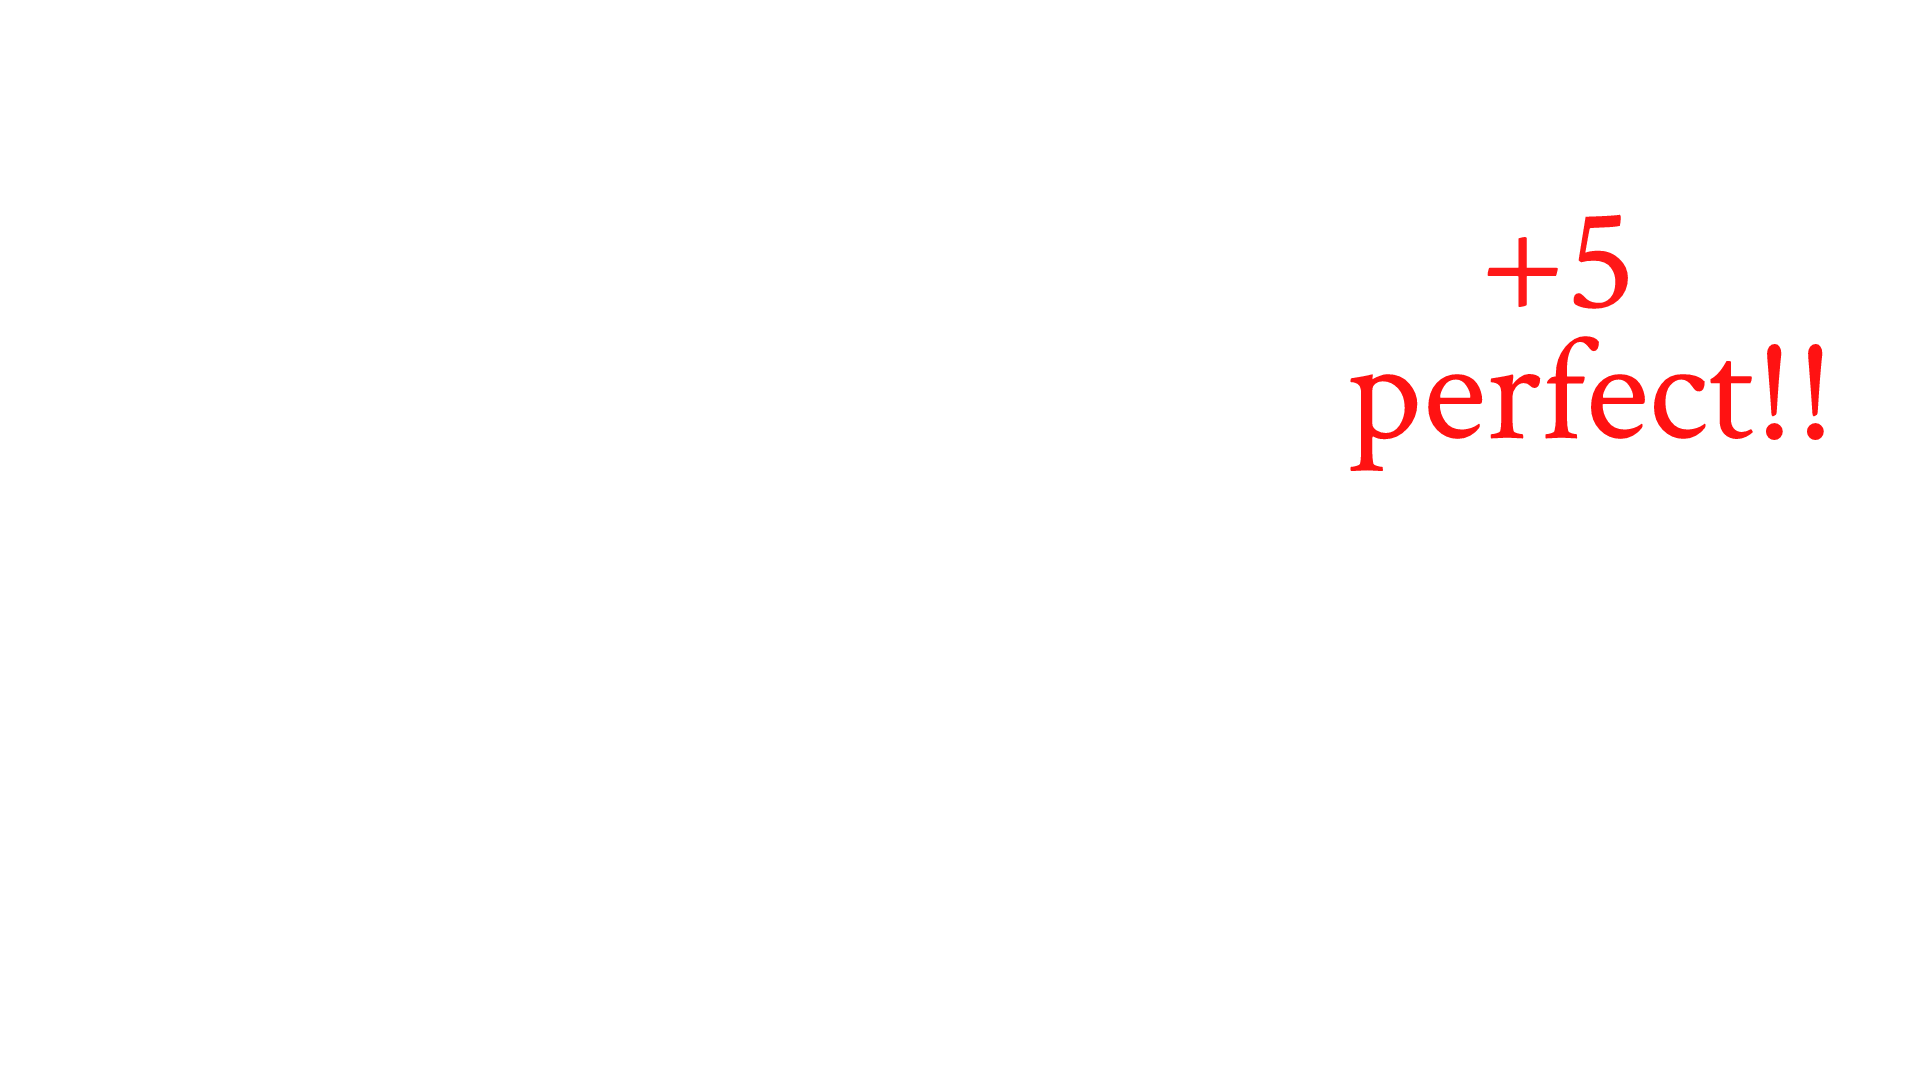
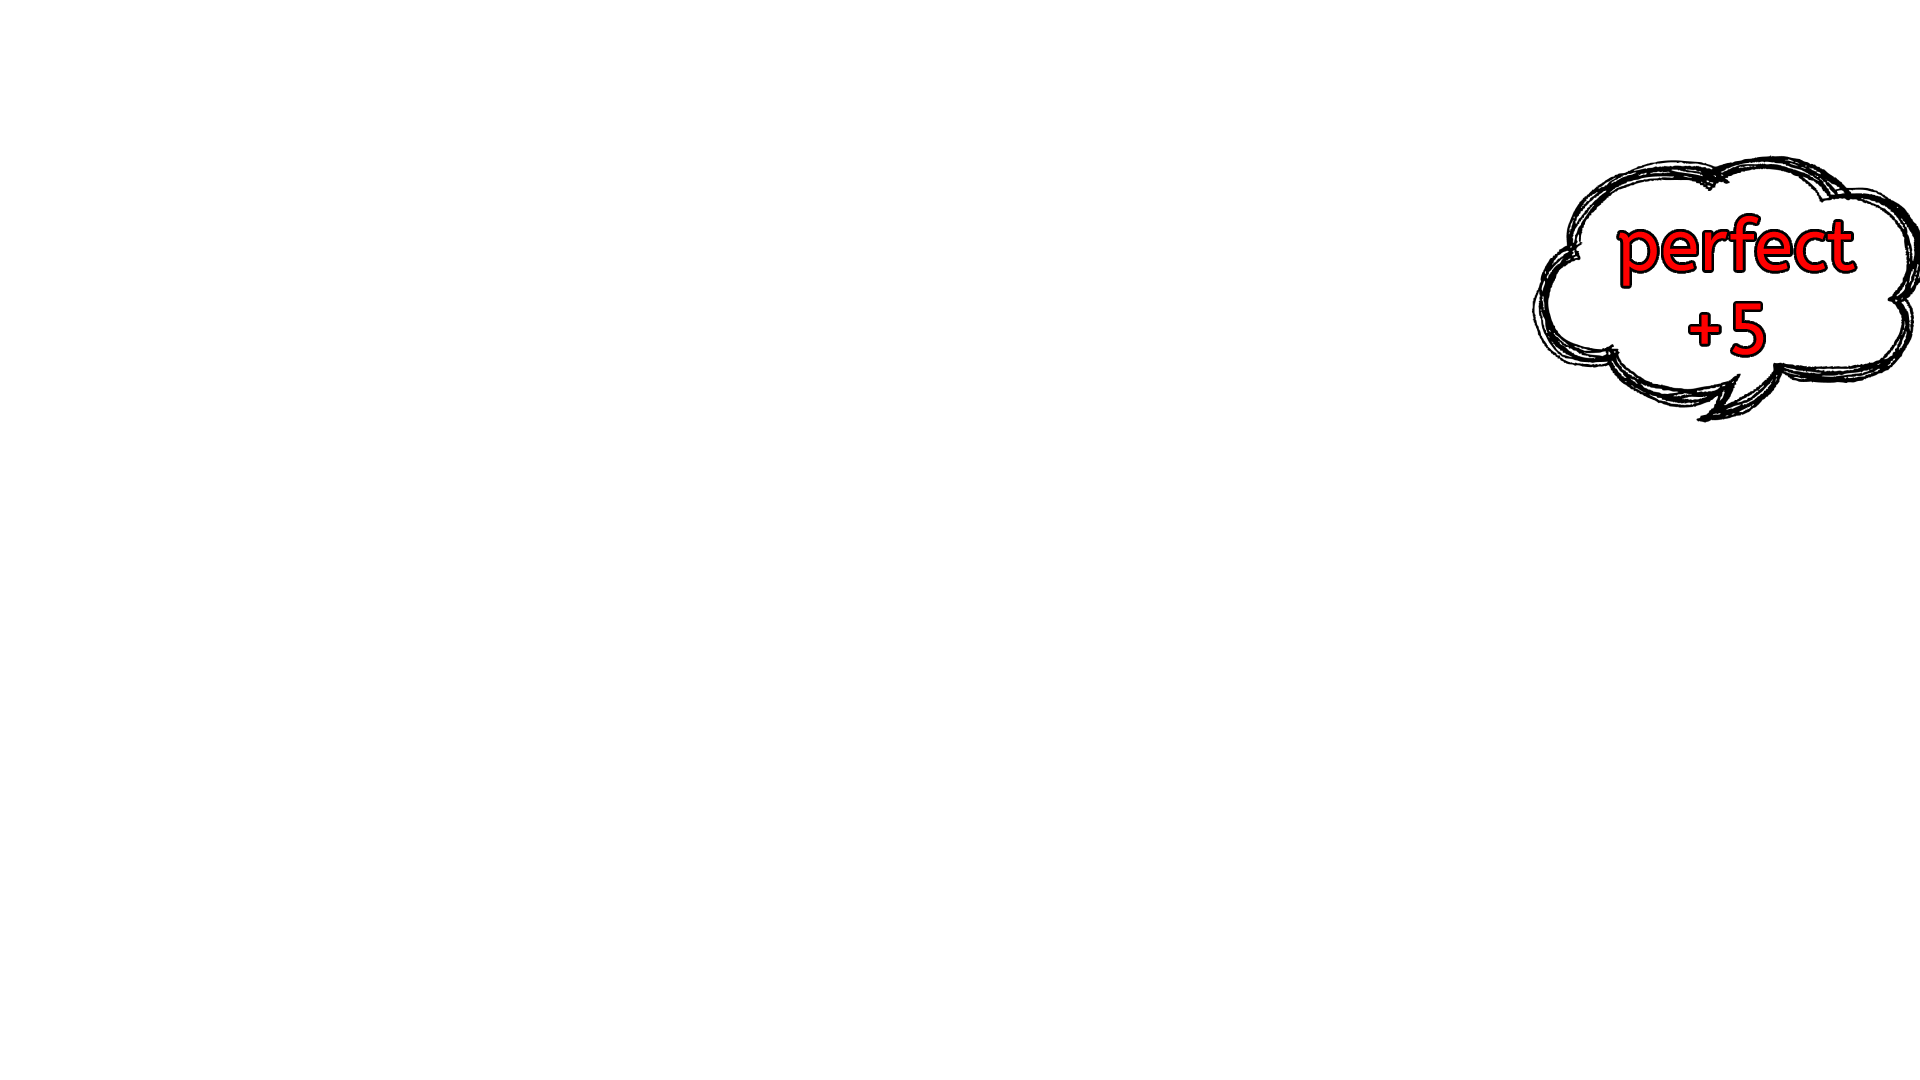
練習のゲームシーンのUI修正

Changed region(s): [[0.6875, 0.1222, 1.0, 0.4583]]

diff --git a/Player.cpp b/Player.cpp
@@ -43,9 +43,9 @@ Player::Player()
 	, m_moveCount(0)
 	, GoalFlag(false)
 	, ResultSceneFlag(false)
+	,m_RoundTrip(-1)
 
 {	
-	
 	// サウンドの読み込み
 	m_sHandle = LoadSoundMem("data/sound/sara_shrow.wav");
 
@@ -53,6 +53,9 @@ Player::Player()
 	m_modelHandle[1] = MV1LoadModel("data/model/player/Swimming01.mv1");
 	m_modelHandle[2] = MV1LoadModel("data/model/player/taisou.mv1");
 	m_modelHandle[3] = MV1LoadModel("data/model/player/result.mv1");
+
+	m_RoundTrip = LoadGraph("data/img/gameScene/oufuku.png");
+	LoadDivGraph("data/img/gameScene/suuji.png", 10, 10, 1, 60, 60, m_mapchipHandle);
 
 
 	//３Ｄモデルの０番目のアニメーションをアタッチし、
@@ -153,7 +156,7 @@ void Player::Update(float _deltaTime)
 			}
 			else if (m_moveFlag == false)//練習だったら
 			{
-				if (m_modeCount == 2)
+				if (m_modeCount == 1)
 				{
 					ResultSceneFlag = true;
 				}
@@ -213,11 +216,7 @@ void Player::Update(float _deltaTime)
 
 		}
 
-
 	}
-
-
-
 
 	// 再生時間をセットする
 	MV1SetAttachAnimTime(m_modelHandle[m_playerState], AttachIndex, PlayTime);
@@ -239,8 +238,12 @@ void Player::Draw()
 	
 	if (!m_moveFlag)
 	{
+		DrawGraph(0, 0, m_RoundTrip, TRUE);
+		DrawGraph(1920 / 2 + 850, 775 , m_mapchipHandle[m_trainingMaxCount - m_modeCount], TRUE);
+
+
 		//残り往復数の表記
-		DrawExtendFormatString(1920 / 2 + 450 - GetFontSize(), 780, 4.0, 4.0, GetColor(0, 0, 0), "残りの往復数：%d", m_trainingMaxCount - m_modeCount);
+		//DrawExtendFormatString(1920 / 2 + 450 - GetFontSize(), 780, 4.0, 4.0, GetColor(0, 0, 0), "残りの往復数：%d", m_trainingMaxCount - m_modeCount);
 	}
 }
 

diff --git a/main.cpp b/main.cpp
@@ -50,9 +50,9 @@ int WINAPI WinMain(HINSTANCE, HINSTANCE, LPSTR, int)
 	SceneMgr* Scene = new SceneMgr;
 
 	//	タイトルシーンをセット
-	//Scene->SetScene(new Title);
+	Scene->SetScene(new Title);
 	//Scene->SetScene(new GameSceneCompe);
-	Scene->SetScene(new TestSceneSudo);
+	//Scene->SetScene(new TestSceneSudo);
 
 	// エスケープキーが押されるかウインドウが閉じられるまでループ
 	while (ProcessMessage() == 0 && CheckHitKey(KEY_INPUT_ESCAPE) == 0)

diff --git a/Player.h b/Player.h
@@ -85,7 +85,8 @@ private:
 	int m_speedDisplay;		//倍速表示の矢印を動かす
 	bool m_moveAnimFlag;//モーションを一時停止するフラグ
 	int m_moveCount;
-
+	int m_RoundTrip;//往復数の画像
+	int m_mapchipHandle[10];//マップチップの画像
 	//　プレイヤーのランキングの順位を保存する変数
 	int PlayerRank;
 
